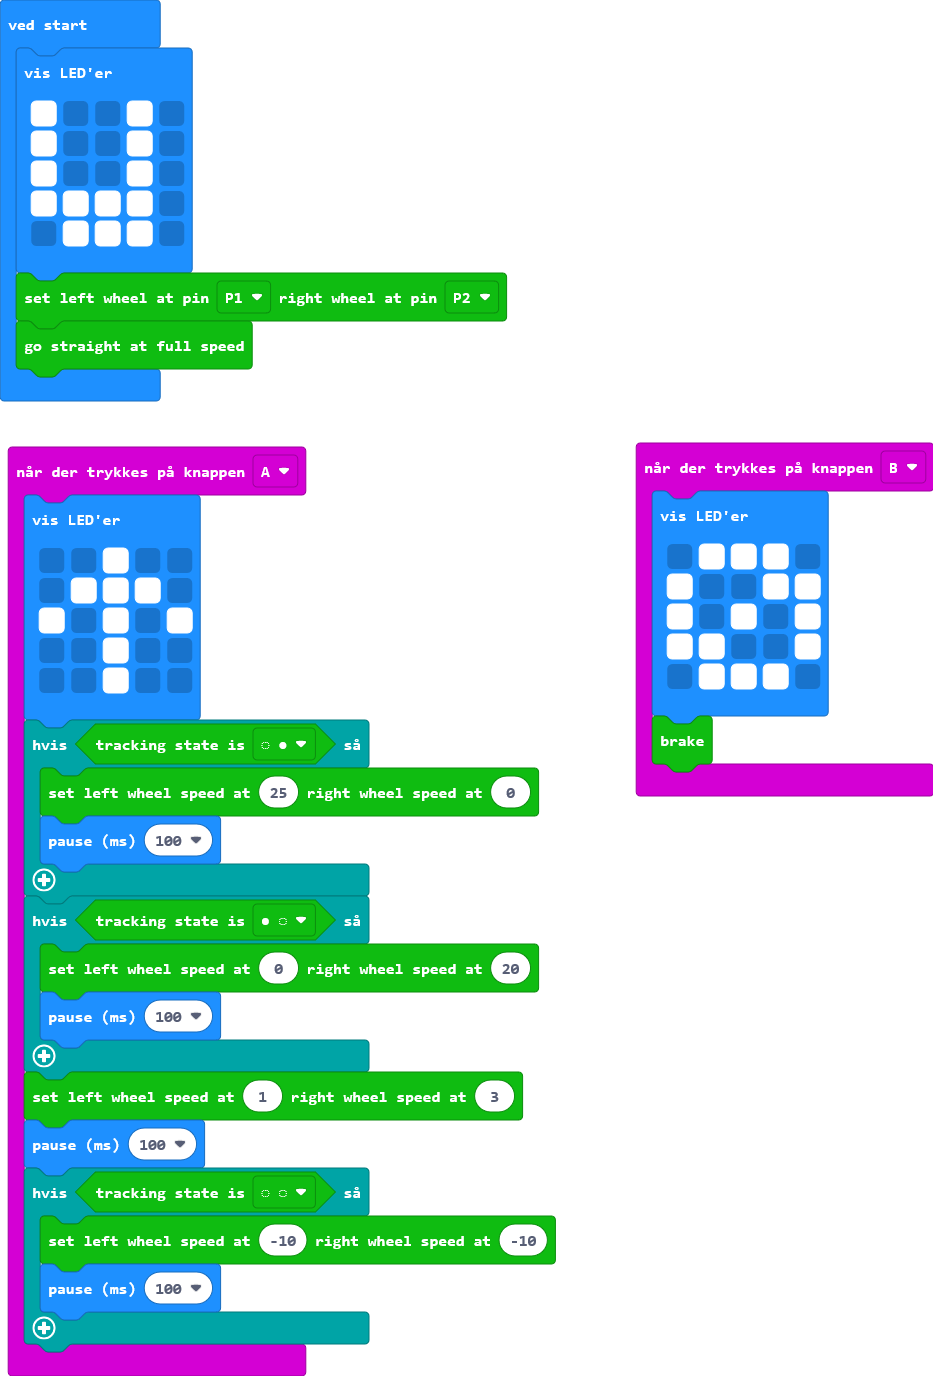
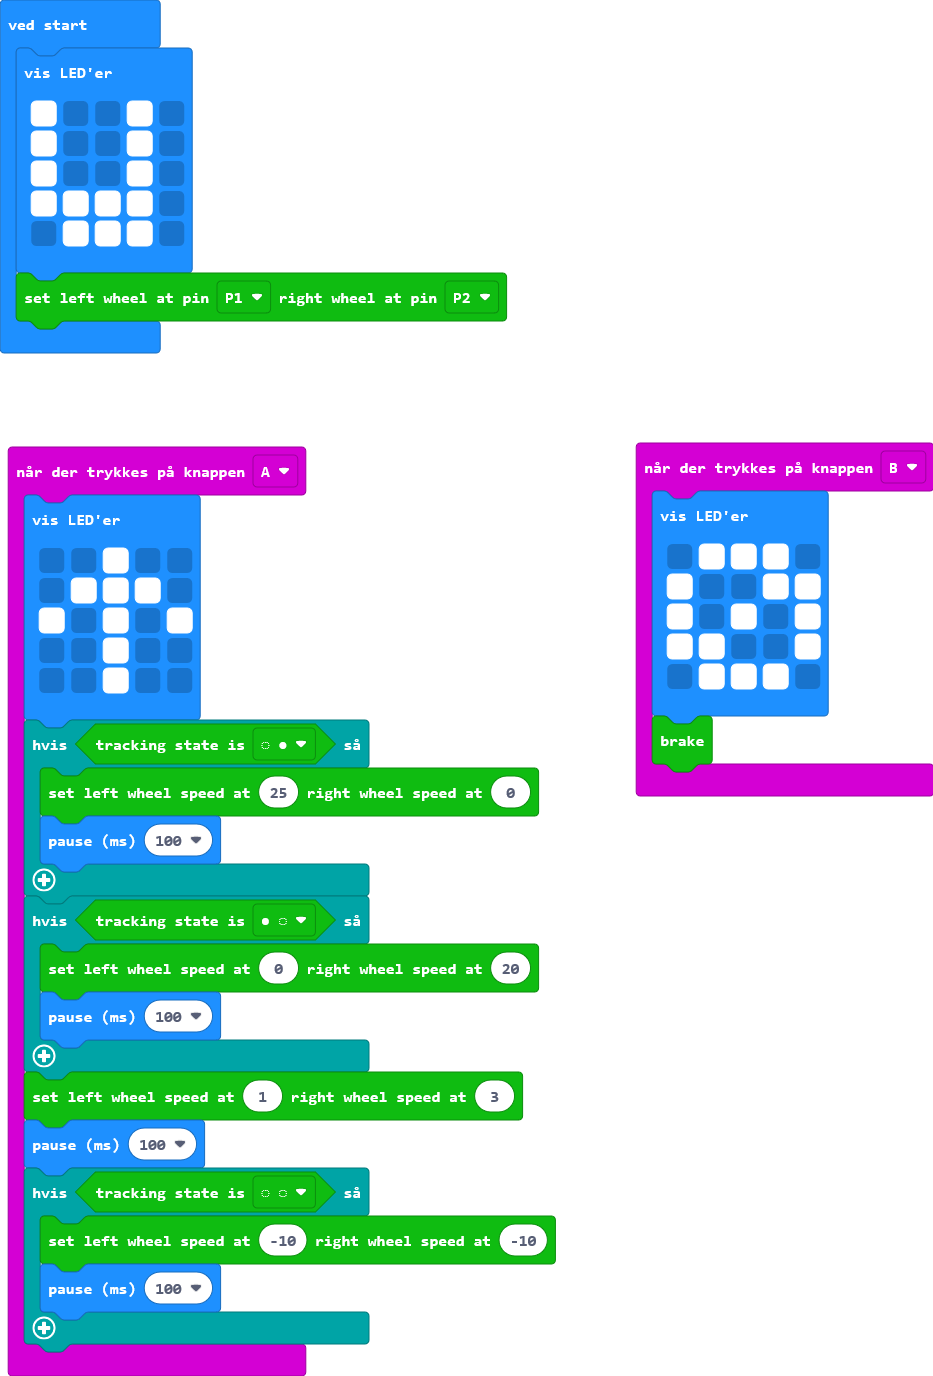
Update main.blocks, main.ts

Changed region(s): [[0.0, 0.2188, 0.2797, 0.3125]]

diff --git a/main.ts b/main.ts
@@ -39,4 +39,3 @@ basic.showLeds(`
     . # # # .
     `)
 RingbitCar.init_wheel(AnalogPin.P1, AnalogPin.P2)
-RingbitCar.forward()
